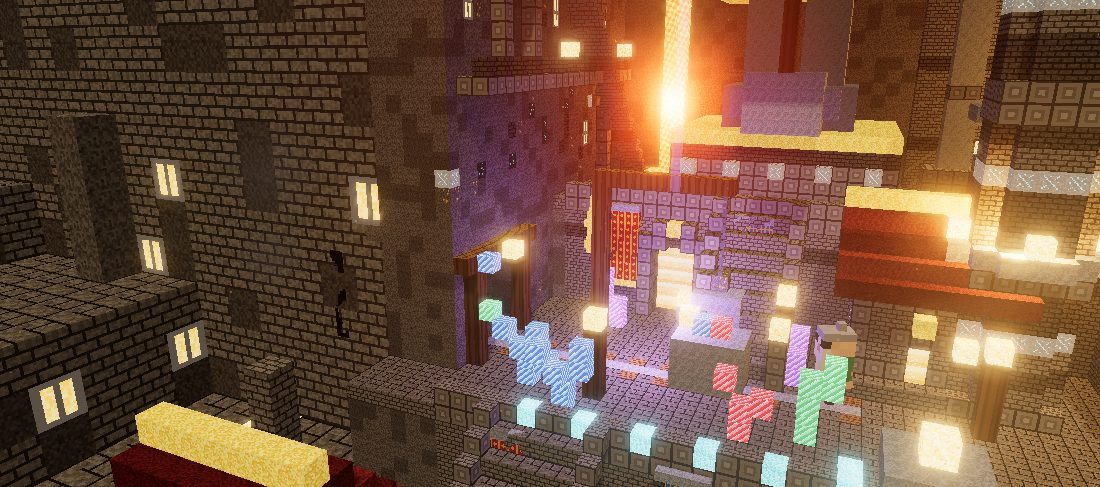
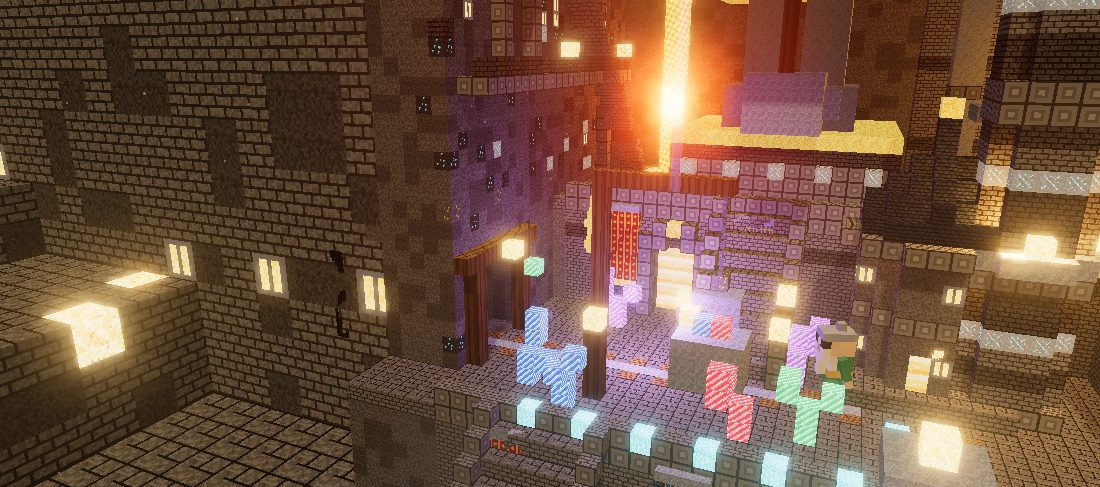
Zwergenstadt: verschiedene Haustypen (Turmhaus, Werkstatt, Wirtshaus, Kuppelhaus, Stufenhaus), weniger Kleinkram, Edelsteinbaum auf dem Hauptplatz
Claude-Session: https://claude.ai/code/session_01VyrGtGhpmUQ9uCwobRxi57

diff --git a/lernwelt/welten/stein.js b/lernwelt/welten/stein.js
@@ -23,6 +23,14 @@ export function build(A){
     goldOre: ore(STONE, ["#FFD24A","#E8A81C"]), diaOre: ore(["#3A3634","#45403C","#302C2A"], ["#8AF0FF","#3FC8E8"]),
     woolR: noise(["#B8302A","#C83A32","#A8261F"]), woolB: noise(["#2F5DA8","#3A6AC0","#244E90"]), woolY: noise(["#E8B030","#F5C542"]),
     shroom: noise(["#5AF0FF","#8AF6FF","#2AC8E8"], 6, ["#E6FFFF"]),
+    copper: tex(g=>{ for(let y=0;y<16;y++) for(let x=0;x<16;x++) P(g,x,y, x%4===0 ? "#2E6A5A" : pick(["#4A9A82","#58A88E","#3E8A74"])); }),
+    slate: tex(g=>{ for(let y=0;y<16;y++) for(let x=0;x<16;x++){ const r=Math.floor(y/3), off=(r%2)*2; P(g,x,y, y%3===2 ? "#1E2228" : ((x+off)%4===0 ? "#2E343C" : pick(["#3A424C","#444C56","#363E48"]))); } }),
+    timber: tex(g=>{ for(let y=0;y<16;y++) for(let x=0;x<16;x++) P(g,x,y, (x<2||x>13||y<2||y>13||Math.abs(x-y)<1.2) ? "#4A2E18" : pick(["#E8DCC0","#DED0B2","#F0E4CA"])); }),
+    goldT: noise(["#C8901E","#E0A830","#B07A18","#F0C040"], 10, ["#FFF0A0"]),
+    gemA: tex(g=>{ for(let x=0;x<16;x++) for(let y=0;y<16;y++){ const d=(x*2+y)%7; P(g,x,y, d===0?"#F4E0FF":d<3?"#C08AFF":"#7A3AD8"); } }),
+    gemE: tex(g=>{ for(let x=0;x<16;x++) for(let y=0;y<16;y++){ const d=(x*2+y)%7; P(g,x,y, d===0?"#E0FFF0":d<3?"#4AE8A0":"#12905A"); } }),
+    gemS: tex(g=>{ for(let x=0;x<16;x++) for(let y=0;y<16;y++){ const d=(x*2+y)%7; P(g,x,y, d===0?"#E0F0FF":d<3?"#6AA8FF":"#2450C8"); } }),
+    gemR: tex(g=>{ for(let x=0;x<16;x++) for(let y=0;y<16;y++){ const d=(x*2+y)%7; P(g,x,y, d===0?"#FFE6EA":d<3?"#FF5A78":"#B01834"); } }),
     roofD: noise(["#6A2A22","#5A2420","#7A3228"]), sbrickD: bricks(["#5E5850","#6A645A","#544E48"], "#2E2A26"), tileR: noise(["#8A3A2E","#9A4434","#7A3228"]), tileB: noise(["#2E4A6A","#36567A","#28405E"]),
     carpet: tex(g=>{ for(let y=0;y<16;y++) for(let x=0;x<16;x++) P(g,x,y, (x<2||x>13) ? "#E8B030" : ((x+y)%8===0 ? "#7A1A1A" : pick(["#A8261F","#B8302A"]))); }),
     banR: tex(g=>{ for(let y=0;y<16;y++) for(let x=0;x<16;x++) P(g,x,y, (x<2||x>13) ? "#E8B030" : (Math.abs(x-7.5)+Math.abs(y-8)<4 ? "#E8B030" : pick(["#A8261F","#B8302A"]))); }),
@@ -36,7 +44,8 @@ export function build(A){
     amethyst:{side:T.amethyst, em:1.0}, emerald:{side:T.emerald, em:.9}, sapphire:{side:T.sapphire, em:1.0}, ruby:{side:T.ruby, em:.95},
     goldOre:{side:T.goldOre}, diaOre:{side:T.diaOre, em:.15}, woolR:{side:T.woolR}, woolB:{side:T.woolB}, woolY:{side:T.woolY}, shroom:{side:T.shroom, em:1.0},
     chain:{side:T.chain, alpha:.99, cross:true},
-    sbrickD:{side:T.sbrickD}, roofD:{side:T.roofD}, tileR:{side:T.tileR}, tileB:{side:T.tileB}, carpet:{side:T.carpet}, banR:{side:T.banR}, banB:{side:T.banB},
+    sbrickD:{side:T.sbrickD}, roofD:{side:T.roofD}, copper:{side:T.copper}, slate:{side:T.slate}, timber:{side:T.timber}, goldT:{side:T.goldT, em:.25},
+    gemA:{side:T.gemA, em:.28}, gemE:{side:T.gemE, em:.25}, gemS:{side:T.gemS, em:.28}, gemR:{side:T.gemR, em:.25}, spark:{side:T.glow, em:1.6, halo:[0xFFFFFF,2.2,.6]}, tileR:{side:T.tileR}, tileB:{side:T.tileB}, carpet:{side:T.carpet}, banR:{side:T.banR}, banB:{side:T.banB},
     lavaFall:{side:T.lava, em:1.4, anim:[0,-.5], soft:true}, lamp:{side:T.glow, em:1.4, halo:[0xFFB84A,3.2,.55]}, cyan:{side:T.shroom, em:1.2, halo:[0x5AF0FF,3,.5]},
     gear:{side:T.gear, alpha:.99, cross:true}
   };
@@ -160,12 +169,44 @@ export function build(A){
       if(zz>0) for(const a of [-hw,hw]) fill(x+a,y+h+1+i,z-zz+1,x+a,y+h+1+i,z+zz-1, i===1 && zz>1 ? "win" : "sbrick"); }
     fill(x+hw-1,y+h+1,z-1,x+hw-1,y+h+R+3,z-1,"sbrick"); set(x+hw-1,y+h+R+4,z-1,"magma"); chim.push([x+hw-.5,y+h+R+5,z-.5]);
     if(opt.balcony){ for(let a=-hw;a<=hw;a++){ set(a+x,y+h-2,z+hd+1,"chisel"); if(a%2===0) set(a+x,y+h-1,z+hd+1,"iron"); } } };
-  stoneHouse(75, L1, 30, 9, 6, 7, {balcony:true});
-  stoneHouse(29, L1, 30, 7, 5, 5);
-  stoneHouse(20, L0, 62, 9, 6, 6, {balcony:true});
-  stoneHouse(8,  L0, 58, 5, 6, 8);
-  stoneHouse(79, L2, 18, 6, 6, 8);
-  stoneHouse(84, L0, 50, 5, 5, 6);
+  // ---------- Verschiedene Zwergenhäuser ----------
+  const FH = A.fine, fh2 = (x,y,z,t) => FH.set(Math.round(x*2),Math.round(y*2),Math.round(z*2),t);
+  // Turmhaus: rund, Schieferkegel, Balkonring
+  const towerHouse = (x,y,z,r,h) => { fill(x-r-1,y,z-r-1,x+r+1,y,z+r+1,"flag");
+    for(let yy=y+1;yy<=y+h;yy++) ring(x,yy,z,r,(a,b,c)=> (b-y)%4===0 ? "chisel" : ((b-y)%4===2 && (a+c)%3===0 ? "win" : "stone"));
+    disk(x,y+h,z,r,"planks"); ring(x,y+h,z,r+1,"chisel"); for(let k=0;k<r+3;k++) ring(x,y+h+1+k,z,Math.max(.3,r+.6-k*.85),"slate"); set(x,y+h+r+4,z,"gold");
+    set(x,y+1,z+r,"door"); set(x,y+2,z+r,"door"); fh2(x+1,y+3,z+r+.5,"lamp");
+    chim.push([x+.5,y+h+r+5,z+.5]); };
+  // Werkstatt: breit und niedrig, großes glühendes Tor, dicker Schornstein, Zahnrad an der Wand
+  const workshop = (x,y,z,w,d) => { const hw=w>>1, hd=d>>1; fill(x-hw-1,y,z-hd-1,x+hw+1,y,z+hd+1,"flag");
+    walls(x-hw,y+1,z-hd,x+hw,y+5,z+hd,(a,b,c)=> b===y+5 ? "chisel" : ((a===x-hw||a===x+hw)&&(c===z-hd||c===z+hd)) ? "sbrickD" : "sbrick");
+    fill(x-hw,y+6,z-hd,x+hw,y+6,z+hd,"slate"); fill(x-hw+1,y+7,z-hd+1,x+hw-1,y+7,z+hd-1,"slate");
+    for(let a=-1;a<=1;a++) for(let b=1;b<=3;b++) set(x+a,y+b,z+hd,"door"); fill(x-2,y+4,z+hd,x+2,y+4,z+hd,"iron");
+    fill(x+hw-1,y+6,z-hd+1,x+hw,y+12,z-hd+2,"sbrickD"); fill(x+hw-1,y+13,z-hd+1,x+hw,y+13,z-hd+2,"magma"); chim.push([x+hw,y+14,z-hd+2]);
+    for(let a=-1.5;a<=1.5;a+=.5) for(let b=-1.5;b<=1.5;b+=.5){ const dd=Math.hypot(a,b), an=Math.atan2(b,a); if(dd<1.4||(dd<1.9&&Math.sin(an*8)>0)) fh2(x-hw+1.5+a,y+3.5+b,z+hd+.75, dd<.4?"iron":"gold"); }
+    set(x-hw-1,y+1,z+hd+1,"log"); set(x-hw-1,y+2,z+hd+1,"log"); set(x+hw+1,y+1,z+hd,"anvil"==="x"?"iron":"iron"); };
+  // Wirtshaus: Fachwerk-Obergeschoss, Holzschild, Fässer
+  const tavern = (x,y,z,w,d) => { const hw=w>>1, hd=d>>1; fill(x-hw-1,y,z-hd-1,x+hw+1,y,z+hd+1,"flag");
+    walls(x-hw,y+1,z-hd,x+hw,y+4,z+hd,(a,b,c)=> ((a===x-hw||a===x+hw)&&(c===z-hd||c===z+hd)) ? "sbrickD" : (b===y+3 && (a+c)%3===0 ? "win" : "stone"));
+    walls(x-hw-1,y+5,z-hd-1,x+hw+1,y+8,z+hd+1,(a,b,c)=> b===y+5 ? "log" : (b===y+7 && (a+c)%2===0 ? "win" : "timber"));
+    for(let i=0;i<=hd+2;i++) fill(x-hw-2,y+9+i,z-hd-2+i,x+hw+2,y+9+i,z+hd+2-i, i===hd+2?"gold":"roofD");
+    fill(x-1,y+1,z+hd,x+1,y+2,z+hd,"door"); fill(x+hw+1,y+4,z+hd,x+hw+3,y+4,z+hd,"log"); fill(x+hw+3,y+2,z+hd,x+hw+3,y+3,z+hd,"planks"); fh2(x+hw+3,y+1.75,z+hd+.5,"woolR");
+    for(const [a,b] of [[-hw-1,hd+1],[-hw,hd+2],[hw+1,hd+2]]){ set(x+a,y+1,z+b,"log"); fh2(x+a,y+2,z+b,"planks"); } fh2(x-hw+.5,y+2.5,z+hd+1,"lamp");
+    chim.push([x-hw+1,y+14,z]); fill(x-hw+1,y+9,z,x-hw+1,y+13,z,"sbrick"); };
+  // Kuppelhaus: quadratisch, Kupferkuppel mit Goldspitze, Säulenvorbau
+  const domeHouse = (x,y,z,r) => { fill(x-r-2,y,z-r-2,x+r+2,y,z+r+3,"flag");
+    walls(x-r,y+1,z-r,x+r,y+5,z+r,(a,b,c)=> b===y+5 ? "chisel" : (b===y+3 && (a===x||c===z) ? "win" : "sbrick"));
+    for(let yy=0;yy<=r;yy++) ring(x,y+6+yy,z,Math.sqrt(Math.max(0,(r+.4)**2-yy*yy)),"copper",1.4); set(x,y+7+r,z,"gold"); set(x,y+8+r,z,"gold");
+    for(const a of [-2,2]){ fill(x+a,y+1,z+r+2,x+a,y+4,z+r+2,"chisel"); } fill(x-2,y+5,z+r+1,x+2,y+5,z+r+2,"chisel"); set(x,y+1,z+r,"door"); set(x,y+2,z+r,"door"); fh2(x,y+4.5,z+r+2.5,"lamp"); };
+  // Stufenhaus: drei kleiner werdende Stockwerke mit Runenband und Goldkante
+  const stepHouse = (x,y,z,w) => { let hw=w>>1, yy=y; fill(x-hw-1,y,z-hw-1,x+hw+1,y,z+hw+1,"flag");
+    for(let k=0;k<3 && hw>=1;k++){ walls(x-hw,yy+1,z-hw,x+hw,yy+3,z+hw,(a,b,c)=> b===yy+3 ? (k===2?"goldT":"rune") : (b===yy+2 && (a+c)%2===0 && a!==x-hw && a!==x+hw ? "win" : (k%2?"sbrickD":"stone")));
+      fill(x-hw,yy+4,z-hw,x+hw,yy+4,z+hw,"chisel"); yy+=4; hw-=1; } set(x,yy+1,z,"lamp");
+    set(x,y+1,z+(w>>1),"door"); set(x,y+2,z+(w>>1),"door"); };
+  workshop(75, L1, 30, 9, 6);
+  towerHouse(29, L1, 30, 3, 8);
+  tavern(20, L0, 62, 7, 4);
+  domeHouse(79, L2, 18, 3);
   // ---------- Unterstadt vorne: eine Ebene tiefer, Straße mit Häusern, die Stadt geht weiter ----------
   const LM = L0-8, Z0 = D, Z1 = D+34;
   for(let z=Z0; z<=Z1; z++) for(let x=-2; x<=W+2; x++){ const side = Math.max(0, Math.max(4-x, x-(W-5)));
@@ -177,13 +218,38 @@ export function build(A){
   for(let i=0;i<8;i++) fill(38,L0-1-i,Z0+i,50,L0-1-i,Z0+i,"flag"), fill(38,LM-1,Z0+i,50,L0-2-i,Z0+i,"sbrick");
   for(const xx of [37,51]) for(let i=0;i<8;i++) set(xx,L0-i,Z0+i,"chisel");
   // Häuserzeilen links und rechts der Straße (Vorderseite zur Kamera)
-  for(const [hx,hz,w,h] of [[9,Z0+12,9,7],[22,Z0+14,8,9],[10,Z0+26,8,8],[24,Z0+28,9,6],[66,Z0+12,8,8],[79,Z0+14,9,6],[65,Z0+27,9,7],[78,Z0+28,8,9]]) stoneHouse(hx,LM,hz,w,6,h,{balcony:(h>=8)});
+  stepHouse(12,LM,Z0+12,9); towerHouse(24,LM,Z0+16,3,10); tavern(14,LM,Z0+28,7,4); workshop(66,LM,Z0+12,9,6); domeHouse(79,LM,Z0+16,3); towerHouse(70,LM,Z0+29,2,7);
   // Brunnen auf dem Platz, Laternen entlang der Straße
-  { const fx=44, fz=Z0+18; ring(fx,LM,fz,3.2,"chisel"); disk(fx,LM,fz,2.2,"lava"); fill(fx,LM,fz,fx,LM+3,fz,"sbrick"); set(fx,LM+4,fz,"glow"); }
+  // ---------- Der Edelsteinbaum: von Zwergen geschmiedet, Stamm aus gedrehtem Gold und Eisen, Blätter aus Edelsteinen ----------
+  const gemTree = (cx,y0,cz) => {
+    // Sockel: runde Stufen mit Runen und Goldband
+    for(let k=0;k<3;k++){ disk(cx,y0+k,cz,6.5-k*1.6,k===2?"goldT":"chisel"); ring(cx,y0+k,cz,6.5-k*1.6,k===1?"rune":"sbrickD"); }
+    const base = y0+3;
+    // Wurzeln aus Gold, die sich über den Sockel krallen (fein)
+    for(let i=0;i<7;i++){ const an=i/7*Math.PI*2+.2; let px=cx, pz=cz, py=base+.5; for(let k=0;k<12;k++){ px+=Math.cos(an)*.45; pz+=Math.sin(an)*.45; py-= k<5 ? 0 : .28; fh2(px,py,pz, k%3===0?"iron":"goldT"); fh2(px,py+.5,pz,"goldT"); } }
+    // Stamm: zwei verdrehte Stränge (Gold + Eisen), oben verzweigt
+    for(let h=0; h<9; h+=.5){ const a=h*.6, r=1.6-h*.08; for(let k=0;k<6;k++){ const off=k/6*Math.PI*2; fh2(cx+Math.cos(a+off)*r, base+h, cz+Math.sin(a+off)*r, k%3===1 ? "iron" : "goldT"); fh2(cx+Math.cos(a+off)*r*.5, base+h, cz+Math.sin(a+off)*r*.5, "goldT"); } fh2(cx,base+h,cz,"goldT"); if(h===4) fh2(cx+Math.cos(a)*1.9, base+h, cz+Math.sin(a)*1.9, "gemR"); }
+    // Äste rekursiv, an den Spitzen Edelstein-Blätterbüschel
+    const gems = ["gemA","gemE","gemS","gemR"]; const tips = [];
+    const branch = (x,y,z,yaw,pitch,len,depth) => { const n=Math.ceil(len*2); let px=x,py=y,pz=z;
+      for(let i=0;i<n;i++){ px+=Math.cos(yaw)*Math.cos(pitch)*.5; pz+=Math.sin(yaw)*Math.cos(pitch)*.5; py+=Math.sin(pitch)*.5; fh2(px,py,pz, depth>1 ? "goldT" : "iron"); if(depth>1 && i%2===0) fh2(px,py+.5,pz,"goldT"); }
+      if(depth===0){ tips.push([px,py,pz,cur]); return; }
+      const k = depth>1 ? 3 : 2; for(let j=0;j<k;j++) branch(px,py,pz, yaw+(j-(k-1)/2)*1.1+(rand()-.5)*.5, Math.max(.05, pitch-.15+(rand()-.3)*.4), len*.68, depth-1); };
+    let cur = "gemE";
+    for(let i=0;i<5;i++){ cur = ["gemE","gemA","gemS","gemR","gemA"][i]; branch(cx, base+7+i*.4, cz, i/5*Math.PI*2+.4, .5, 3.4, 3); }
+    cur = "gemE"; branch(cx, base+9, cz, 0, 1.4, 2.2, 2);
+    // Blätter: kleine Edelstein-Kristalle (je Büschel eine Farbe), dazwischen Funken
+    tips.forEach(([tx,ty,tz,g],i)=>{ for(let a=-1;a<=1;a+=.5) for(let b=-.5;b<=1;b+=.5) for(let c=-1;c<=1;c+=.5){ const d=Math.hypot(a,b*1.3,c); if(d<=1.05 && rand()<.82) fh2(tx+a,ty+b+.4,tz+c, d>.8 && rand()<.06 ? "spark" : g); }
+      if(i%3===0) fh2(tx,ty+1.2,tz,"spark");
+      if(i%2===0){ for(let k=1;k<=Math.floor(2+rand()*3);k++) fh2(tx+.5,ty-k*.5,tz,"chain"); fh2(tx+.5,ty-2.5-rand(),tz,g); } });   // hängende Edelstein-Anhänger
+    // Laternen-Ring um den Baum
+    if(false) for(let i=0;i<6;i++){ const an=i/6*Math.PI*2+.5; const lx=Math.round(cx+Math.cos(an)*7.5), lz=Math.round(cz+Math.sin(an)*7.5); fill(lx,y0,lz,lx,y0+2,lz,"iron"); set(lx,y0+3,lz,"lamp"); }
+    return [cx, base+20, cz]; };
+  { const fx=44, fz=Z0+18; ring(fx,LM,fz,3.2,"chisel"); disk(fx,LM,fz,2.2,"lava"); fill(fx,LM,fz,fx,LM+3,fz,"sbrick"); set(fx,LM+4,fz,"lamp"); }
   for(let z=Z0+9; z<=Z1; z+=6) for(const lx of [35,53]){ fill(lx,LM,z,lx,LM+3,z,"log"); set(lx,LM+4,z,"glow"); }
   // Kleinkram: Felsbrocken, Pilze, Kisten, Laternenpfähle auf dem Vorplatz
   const busy = (x,z) => Math.abs(x-44)<9 || (Math.hypot(x-S.country.x,z-S.country.z)<15) || (x<26 && z<44 && z>24) || Math.abs(x-12)<4 || (x>58 && x<65) || (x<30 && z<24);
-  for(let i=0;i<70;i++){ const x=7+Math.floor(rand()*(W-14)), z=11+Math.floor(rand()*(D-12)); if(busy(x,z)) continue; const t=topAt(x,z,40)+1; if(t>L2+1 || get(x,t,z)) continue;
+  for(let i=0;i<22;i++){ const x=7+Math.floor(rand()*(W-14)), z=11+Math.floor(rand()*(D-12)); if(busy(x,z)) continue; const t=topAt(x,z,40)+1; if(t>L2+1 || get(x,t,z)) continue;
     const r=rand(); if(r<.3){ ellip(x,t,z,1+rand(),1,1+rand(),"stone"); } else if(r<.5) set(x,t,z,"shroom"); else if(r<.65){ fill(x,t,z,x,t+3,z,"log"); set(x,t+4,z,"glow"); } else if(r<.75) cluster(x,t,z,pick(["amethyst","sapphire"]),2); else set(x,t,z,"planks"); }
 
   // ---------- Decke mit Tropfsteinen und Lichtöffnung über dem Tempel ----------
@@ -207,6 +273,7 @@ export function build(A){
   for(const [cx,cz,L,r] of [[44,59,L0,8],[44,38,L1,5],[44,Z0+18,LM,7]]) for(let x=cx-r-2;x<=cx+r+2;x++) for(let z=cz-r;z<=cz+r;z++){
     if(get(x,L-1,z)!=="flag" || !freeAbove(x,L,z)) continue; const d=Math.abs(x-cx)+Math.abs(z-cz);
     if(d<=r) set(x,L-1,z, d===r ? "gold" : d===r-1 ? "chisel" : (d%3===0 ? "tileR" : d%3===1 ? "tileB" : "flag")); }
+  const treeTop = gemTree(44, L0, 60);
   // 2) roter Teppich von der Treppe zum Tempeltor
   for(let z=12; z<=25; z++) for(let x=41;x<=47;x++){ if(get(x,L2-1,z) && freeAbove(x,L2,z)) set(x,L2-1,z, (x===41||x===47) ? "gold" : "carpet"); }
   // 3) Lavarinne vor der Terrassenmauer der Unterstadt, mit Brücken an den Treppen
@@ -249,7 +316,7 @@ export function build(A){
     creatures.push({ ...bat(), pass:{a:[pa[0]+o[0]-i*.8,pa[1]+o[1],pa[2]+o[2]], b:[pb[0]+o[0]-i*.8,pb[1]+o[1],pb[2]+o[2]], period:P, dur:8.5, ph:ph0+i*.12, wave:[1.6,2+i%3], wph:i}, scale:.3 }); }
   const tun = [0x2F5DA8,0xA83A2A,0x3A8A4A,0x7A4AA8,0x8A6A2A], brd = [0xC86A2A,0xE8E2D8,0x6A4A2A,0xD8B060,0x2A2A2A];
   creatures.push({ ...dwarf({tunic:0x6A3A2A, beard:0xE8E2D8, hammer:true}), at:[S.country.x-4, L0, S.country.z-1], yaw:0, scale:.5 });
-  for(let i=0;i<5;i++) creatures.push({ ...dwarf({tunic:tun[i], beard:brd[i], walk:true}), orbit:{c:[44+(i-2)*6, L0, 55+(i%2)*3], r:[4+i, 2+(i%3)], speed:.18+(i%3)*.05, ph:i*1.3, bob:.1, dir:i%2?1:-1}, scale:.42 });
+  for(let i=0;i<5;i++) creatures.push({ ...dwarf({tunic:tun[i], beard:brd[i], walk:true}), orbit:{c:[44, L0, 60], r:[9.5+(i%2)*.8, 6+(i%2)*.5], speed:.07+(i%3)*.012, ph:i*1.25, bob:.1, dir:i%2?1:-1}, scale:.42 });
   for(let i=0;i<3;i++) creatures.push({ ...dwarf({tunic:tun[(i+2)%5], beard:brd[(i+1)%5], walk:true}), orbit:{c:[30+i*14, L1, 36], r:[6, 2], speed:.2, ph:i*2, bob:.1, dir:i%2?1:-1}, scale:.42 });
   for(const [dx,dz,yaw,i] of [[38,18,1.6,0],[52,20,1.3,1],[9,48,.3,2],[80,40,2.6,3]]) creatures.push({ ...dwarf({tunic:tun[i], beard:brd[(i+2)%5]}), at:[dx, level(dz)>=TOP?L2:level(dz), dz], yaw, scale:.42 });
 
@@ -261,10 +328,12 @@ export function build(A){
             {pos:[S.country.x,L0+4,S.country.z-2], color:0xFF7A2A, int:340, dist:30, flicker:true},
             {pos:[S.vocabulary.x,L1+5,S.vocabulary.z], color:0xB88AFF, int:260, dist:26},
             {pos:[44,L0+8,52], color:0xFFC870, int:300, dist:40},
+            {pos:[44,L0+16,60], color:0xC8A8FF, int:260, dist:30}, {pos:[44,L0+10,64], color:0x6AF0C0, int:160, dist:22},
             {pos:[10,L2+6,12], color:0xFF7A2A, int:220, dist:26, flicker:true}, {pos:[80,L2+6,12], color:0xFF7A2A, int:220, dist:26, flicker:true},
             {pos:[33,L1+10,34], color:0xFFB050, int:140, dist:20}, {pos:[55,L1+10,34], color:0xFFB050, int:140, dist:20}],
     rays:{n:10, color:0xFFE6B8, area:[38,50,12,26], y:40, len:70},
-    particles:[{n:420, area:[0,W,3,TOP,0,D], vy:0, wob:.25, color:0xFFE6A8, size:.16, opacity:.8, add:true, twinkle:true},
+    particles:[{n:140, area:[44-6,44+6,L0+5,L0+16,60-6,60+6], vy:.25, wob:.4, color:0xFFFFFF, size:.22, add:true, blink:2.2},
+               {n:420, area:[0,W,3,TOP,0,D], vy:0, wob:.25, color:0xFFE6A8, size:.16, opacity:.8, add:true, twinkle:true},
                {n:200, area:[S.country.x-3,S.country.x+3,L0+8,L0+32,S.country.z-8,S.country.z-4], vy:3, wob:.5, color:0xFF9A3A, size:.25, add:true}],
     puffs:[{n:8, pos:[S.country.x,L0+31,S.country.z-6], dx:2, dy:14, dz:2, s0:3, s1:8, color:0x4A4040, opacity:.4, speed:.05},
            ...chim.map(c=>({n:3, pos:c, dx:1, dy:7, dz:-1, s0:1, s1:3.5, color:0x4A4440, opacity:.35, speed:.07, spread:.5})),
